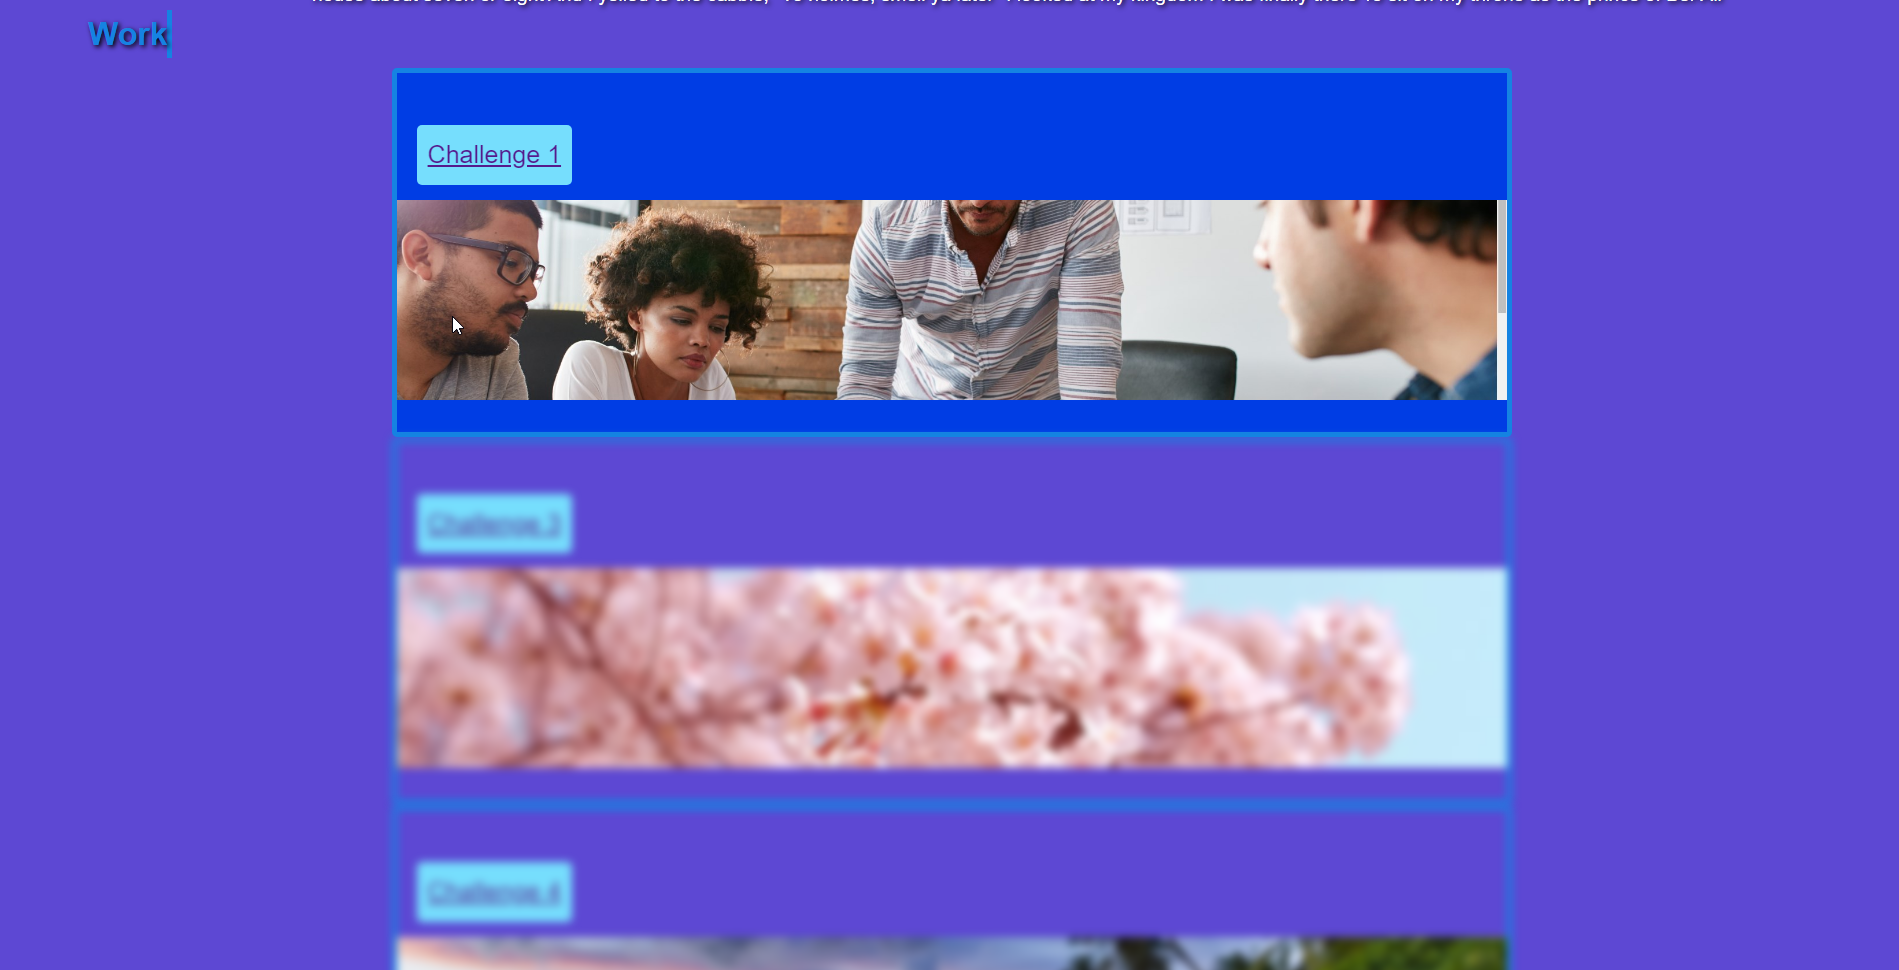
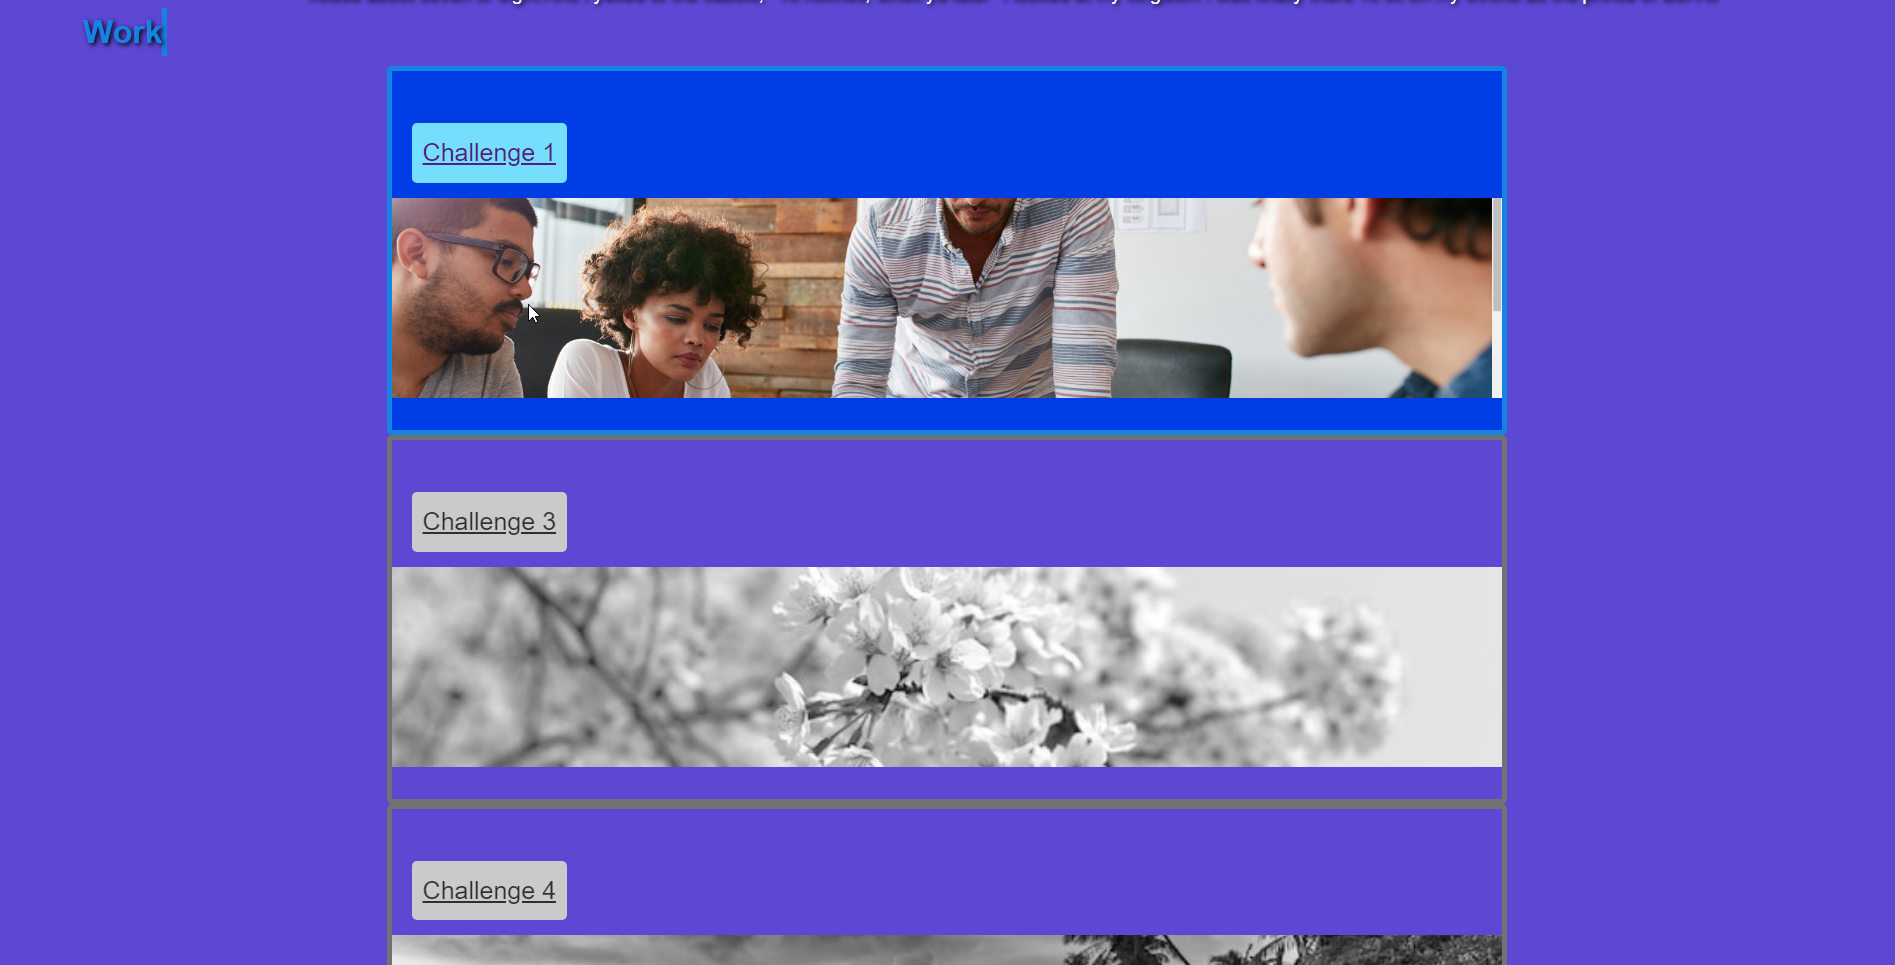
redid screenshots, made .css images have greyscale on them, added comments

diff --git a/index.html b/index.html
@@ -44,7 +44,7 @@
           </header>
           </aside>
 
-        <!-- About Me article with a brief paragraph or two -->
+        <!-- About Me article with a brief paragraph or two (placeholder text as well) -->
         <div section>
           <article class="about-me">
                 <p>My name is Allie Stewart, and I am a student at the University of Texas Coding Bootcamp for fall 2023.</p>

diff --git a/assets/css/style.css b/assets/css/style.css
@@ -174,14 +174,14 @@ section {
     margin-inline: auto;
     border: solid 5px var(--main-text-color);
     border-radius: 5px;
-    filter: blur(4px);
+    filter: grayscale();
 
 }
 
 /* Needs to hover over each box for preview */
 .work:hover {
     text-decoration: none;
-    filter: blur(0);
+    filter: none;
     background: rgb(0, 61, 228);
 }
 

diff --git a/README.md b/README.md
@@ -26,7 +26,7 @@ Link to the website: https://alliestewart.github.io/challenge-2/
 ![Alt text](assets/Screen1.png)
 
 --Start of Work--
-(Note how the project is no longer blurred when the mouse hovers over it.)
+(Note how the project is no longer grey when the mouse hovers over it.)
 (Additionally, only Challenge 1 has a working link, the rest just link back to my GitHub.)
 ![Alt text](assets/Screen2.png)
 
